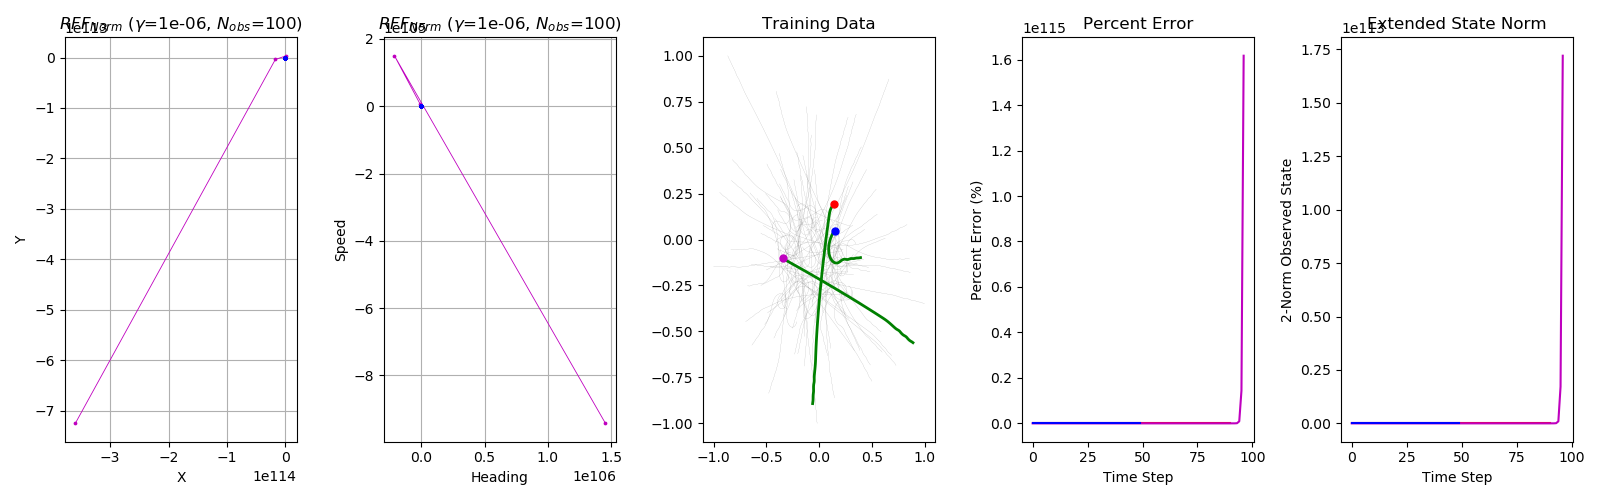
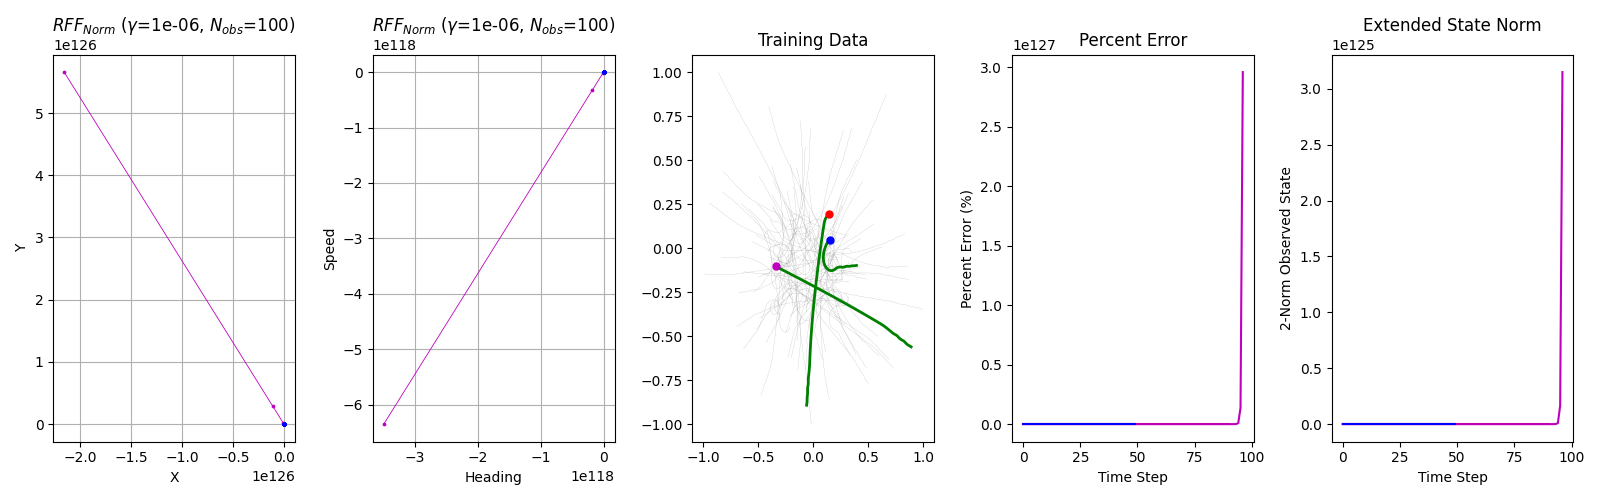
Added koop_gui for rff visualization

diff --git a/autokoopman/koop_gui.py b/autokoopman/koop_gui.py
@@ -1,0 +1,222 @@
+ 
+import numpy as np
+import matplotlib.pyplot as plt
+from matplotlib.widgets import Button, TextBox
+
+def get_extended_state_rff(X, seed=1985, gamma=1e-4, num_features=200, include_ident=True):
+    '''get X with rff observables
+    
+    this also duplicates the variables as part of the observables
+    if add_one=True, this also adds a constant 1 to the observables at each step
+    '''
+
+    assert len(X.shape) == 2, f"X.shape={X.shape}, expected 2D array"
+
+    np.random.seed(seed)
+    
+    dimension = X.shape[0]
+
+    w = np.sqrt(2 * gamma) * np.random.normal(size=(num_features, dimension))
+    
+    # Generate D iid samples from Uniform(0,2*pi)
+    u = 2 * np.pi * np.random.rand(1, num_features)
+
+    s = np.sqrt(2 / num_features)
+
+    # each observation is gamma * cos(col <dot> rand_vec + rand_phase)    
+
+    Z = s * np.cos(w @ X + u.T) # was X.T @ w
+
+    if include_ident:
+        rv = np.vstack((X, Z))
+    else:
+        rv = Z
+
+    return rv
+
+def train_koopman(states_np_list, data_to_x_xprime_func):
+    '''train a koopman model, return a'''
+
+    X_mats = []
+    X_prime_mats = []
+
+    for states_np in states_np_list:
+        num_steps = states_np.shape[1]
+
+        X_mat_list = []
+        X_prime_mat_list = []
+
+        for step in range(num_steps - 1):
+            state_np = states_np[:, step:step+1]
+            state_prime_np = states_np[:, step + 1:step + 2]
+
+            single_state_x, singe_state_xp = data_to_x_xprime_func(state_np, state_prime_np)
+
+            X_mat_list.append(single_state_x)
+            X_prime_mat_list.append(singe_state_xp)
+        
+        X_mats.append(np.hstack(X_mat_list))
+        X_prime_mats.append(np.hstack(X_prime_mat_list))
+
+    X = np.hstack(X_mats)
+    X_prime = np.hstack(X_prime_mats)
+
+    
+    print(f"X.shape={X.shape}")
+
+    pseudoinv = np.linalg.pinv(X)
+
+    A = X_prime @ pseudoinv
+    #print(f"A_B.shape={A_B.shape}")
+
+    # print A and B norm
+    print(f"A norm={np.linalg.norm(A)}")
+    
+    return A
+
+class KoopmanData:
+    '''data related to koopman linearization'''
+
+    def __init__(self, length_scale, num_obs, include_ident):
+        self.trained = False
+
+        self.A = None
+
+    def train(self, trajectories, length_scale, num_obs, include_ident):
+        '''train the koopman linearization'''
+
+        state_np_list = []
+
+        for xs, ys in trajectories:
+            state_np = np.vstack((xs, ys))
+            state_np_list.append(state_np)
+
+        def data_to_x_xprime_func(x, xp):
+            '''convert data to x and xprime'''
+
+            x_rff = get_extended_state_rff(x, gamma=length_scale, num_features=num_obs, include_ident=include_ident)
+            xp_rff = get_extended_state_rff(xp, gamma=length_scale, num_features=num_obs, include_ident=include_ident)
+
+            return x_rff, xp_rff
+        
+        self.A = train_koopman(trajectories, data_to_x_xprime_func)
+        self.trained = True
+
+    def get_prediction(self, x, y):
+        '''get the prediction from the koopman linearization'''
+
+        assert self.trained, 'Koopman model not trained'
+
+        state_np = np.vstack((x, y))
+
+        res = self.A @ get_extended_state_rff(state_np, gamma=1e-4, num_features=200, include_ident=True)
+
+        return res[0], res[1]
+
+
+
+koop_obj = KoopmanData(1e-1, 10, 0)
+
+# Function for vector field
+def vector_field(x, y):
+    #u = 2 * x**2 + x * y
+    #v = 2 * y**2 + x * y
+    #return u, v
+    return koop_obj.get_prediction(x, y)
+
+# Draw the vector field
+def draw_vector_field(ax):
+    x = np.linspace(-10, 10, 20)
+    y = np.linspace(-10, 10, 20)
+    X, Y = np.meshgrid(x, y)
+
+    if koop_obj.trained:
+        U, V = vector_field(X, Y)
+        ax.quiver(X, Y, U, V, color='grey')
+    else:
+        # just plot dots '.' at meshgrid points
+        ax.plot(X, Y, '.', ms=1, color='grey')
+
+# Callback for drawing lines with the mouse
+def on_click(event):
+    if event.inaxes == ax1 and event.button == 1:  # Left mouse button
+        line, = ax1.plot(event.xdata, event.ydata, 'o-', color='black', lw=2)
+        lines.append(line)
+
+def on_motion(event):
+    if event.inaxes == ax1 and event.button == 1 and len(lines) > 0:
+        xdata, ydata = lines[-1].get_data()
+        xdata = np.append(xdata, event.xdata)
+        ydata = np.append(ydata, event.ydata)
+        lines[-1].set_data(xdata, ydata)
+        plt.draw()
+
+def on_release(event):
+    if event.button == 1 and len(lines) > 0:
+        plt.draw()
+
+# Button click callback
+def clear(event):
+    while len(lines) > 0:
+        line = lines.pop()
+        line.remove()
+
+    koop_obj.trained = False
+
+    # Remove the existing vector field without clearing the entire plot
+    for coll in ax1.collections:
+        coll.remove()
+        
+    draw_vector_field(ax1)
+
+    plt.draw()
+
+def train(event):
+    # Get the data points
+    trajectories = [l.get_data() for l in lines]
+    length_scale = float(text_length_scale.text)
+    num_obs = int(text_num_obs.text)
+    include_ident = int(text_include_id.text)
+    koop_obj.train(trajectories, length_scale, num_obs, include_ident)
+
+    # Remove the existing vector field without clearing the entire plot
+    for coll in ax1.collections:
+        coll.remove()
+
+    draw_vector_field(ax1)
+
+# Initialize the plot
+fig, ax1 = plt.subplots(figsize=(10, 8))
+plt.subplots_adjust(bottom=0.15)
+
+# Draw initial vector field
+draw_vector_field(ax1)
+
+# Add text boxes and buttons
+axcolor = 'lightgoldenrodyellow'
+ax_length_scale = plt.axes([0.2, 0.05, 0.08, 0.04], facecolor=axcolor)
+ax_num_obs = plt.axes([0.4, 0.05, 0.08, 0.04], facecolor=axcolor)
+ax_include_id = plt.axes([0.6, 0.05, 0.08, 0.04], facecolor=axcolor)
+
+text_length_scale = TextBox(ax_length_scale, 'Length Scale:', initial='1e-1')
+text_num_obs = TextBox(ax_num_obs, 'Num Obs:', initial='10')
+text_include_id = TextBox(ax_include_id, 'Include Ident:', initial='0')
+
+ax_button_clear = plt.axes([0.7, 0.05, 0.1, 0.04])
+ax_button_train = plt.axes([0.81, 0.05, 0.1, 0.04])
+
+button_clear = Button(ax_button_clear, 'Clear')
+button_clear.on_clicked(clear)
+
+button_train= Button(ax_button_train, 'Train')
+button_train.on_clicked(train)
+
+# List to keep track of lines drawn by user
+lines = []
+
+# Connect mouse events to callbacks
+fig.canvas.mpl_connect('button_press_event', on_click)
+fig.canvas.mpl_connect('motion_notify_event', on_motion)
+fig.canvas.mpl_connect('button_release_event', on_release)
+
+plt.show()

diff --git a/autokoopman/koopman_util.py b/autokoopman/koopman_util.py
@@ -130,6 +130,7 @@ class NormalizationMixin:
         self.centers_states, self.ranges_states = norm_tup
 
         # note we do not normalize actions since error is not based on actions so it wouldn't matter (plus you'd need to add identity action)
+        print(".in train(); 2 / range[0]=", 2 / self.ranges_states[0])
 
         # Call the parent class's train method with normalized data
         super().train(norm_states_np_list, actions_np_list)
@@ -271,6 +272,9 @@ def train_koopman(states_np_list, actions_np_list, data_to_x_xprime_func):
     # print first col of X and X_prime
     print(f"X[0, :]={X[:, 0]}")
     print(f"X_prime[0, :]={X_prime[:, 0]}\n")
+    print()
+
+    print(f"First 6 rows of X for 5 time steps:\n{X[0:6, :5]}")
 
     #Gamma = np.hstack([mat[:,:-1] for mat in actions_np_list])
     Gamma = np.hstack([mat[:,:-1] for mat in actions_np_list])
@@ -317,6 +321,12 @@ def train_koopman(states_np_list, actions_np_list, data_to_x_xprime_func):
         print(f"x first 4: {x0[0:4]}")
         print(f"predicted x' first 4: {predicted[0:4]}")
         print(f"actual x' first 4: {actual[0:4]}")
+
+        # also print what the prediction contribution is from the RFF observables
+        masked_state = x0.copy()
+        x0[0:4] = 0
+        masked_predicted = (A @ x0 + B @ u0)
+        print(f"masked predicted x' first 4: {masked_predicted[0:4]}")
 
         # print abs error for null hypothesis
         abs_error_null = np.linalg.norm(x0p[0:4] - x0[0:4])
